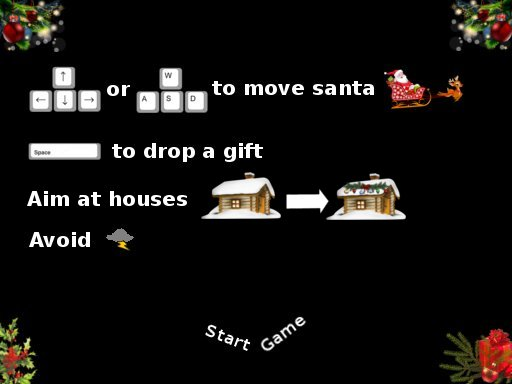
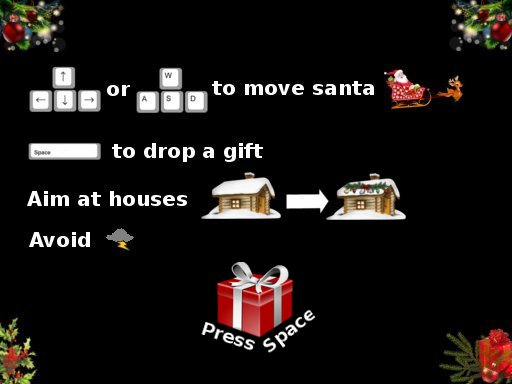
Remove click binding && remove share options

Changed region(s): [[0.375, 0.6875, 0.625, 0.9375]]

diff --git a/src/scenes.js b/src/scenes.js
@@ -88,18 +88,24 @@ Crafty.scene('Game', function() {
 
 Crafty.scene('GameOver', function() {
     Game.currentScene = 'GameOver';
+    var self = this;
+
     Crafty.background('rgb(0, 0, 0)');
 
     Crafty.e('DeadSanta').at(Game.player.x / Game.mainGrid.tile.width, Game.player.y / Game.mainGrid.tile.height);
-    Crafty.e('FinalScore').at(0, Game.playgroundHeight() + 6);
+    Crafty.e('FinalScore').at(2, Game.playgroundHeight() + 6);
 
     setTimeout(function() {
-        Crafty.e('Retry').at(0, Game.playgroundHeight() + 8);
-    }, 1000);
+        Crafty.e('Retry').at(20, Game.playgroundHeight() + 5.5);
 
-    Crafty.e('Twitter').at(20, Game.playgroundHeight() + 6);
-    Crafty.e('Google').at(23, Game.playgroundHeight() + 6);
-    Crafty.e('Facebook').at(26, Game.playgroundHeight() + 6);
+        self.bind('KeyUp', function(e) {
+            if (e.key === Crafty.keys['SPACE']) {
+                Crafty.scene('Game');
+            }
+        });
+    }, 1000);
+}, function() {
+    this.unbind('KeyUp');
 });
 
 
@@ -107,21 +113,15 @@ Crafty.scene('Start', function() {
     Game.currentScene = 'Start';
     var self = this;
 
-    self.startGame = function() {
-        Crafty.scene('Game');
-    };
-
     Crafty.load(['assets/game.jpg',
                  'assets/retry',
                  'assets/santa_dead.png',
                  'assets/sfeir.png',
                  'assets/sprite_house.png',
                  'assets/sprite_santa.png',
-                 'assets/sprite_share.png',
-                 'assets/sprite_storm.png',
-                 'assets/start_button.png'], function() {
+                 'assets/sprite_storm.png'], function() {
 
-        Crafty.sprite(91, 31, 'assets/retry.png', {
+        Crafty.sprite(160, 39, 'assets/retry.png', {
             sprite_retry: [0, 0]
         });
 
@@ -143,20 +143,16 @@ Crafty.scene('Start', function() {
             sprite_santa: [0, 0]
         });
 
-        Crafty.sprite(40, 'assets/sprite_share.png', {
-            sprite_twitter: [0, 0],
-            sprite_google: [1, 0],
-            sprite_facebook: [2, 0]
-        });
-
         Crafty.sprite(32, 27, 'assets/sprite_storm.png', {
             sprite_storm: [0, 0]
         });
 
-        Crafty.sprite(79, 'assets/start_button.png', {
-            sprite_start_button: [0, 0]
+        self.bind('KeyUp', function(e) {
+            if (e.key === Crafty.keys['SPACE']) {
+                Crafty.scene('Game');
+            }
         });
-
-        Crafty.e('StartButton').at(13.5, 16).uniqueBind('Click', self.startGame);
     });
+}, function() {
+    this.unbind('KeyUp');
 });

diff --git a/src/components.js b/src/components.js
@@ -29,13 +29,6 @@ Crafty.c('Actor', {
     }
 });
 
-Crafty.c('Button', {
-    init: function() {
-        this.requires('2D, DOM, Grid, Mouse')
-            .css({cursor: 'pointer'});
-    }
-});
-
 Crafty.c('Scrollable', {
     _speed: 2,
 
@@ -58,12 +51,6 @@ Crafty.c('Scrollable', {
                 self.scroll(direction, scene, onDestroy);
             }, 10);
         }
-    }
-});
-
-Crafty.c('StartButton', {
-    init: function() {
-        this.requires('Button, sprite_start_button');
     }
 });
 
@@ -240,47 +227,6 @@ Crafty.c('DeadSanta', {
 
 Crafty.c('Retry', {
     init: function() {
-        this.requires('Button, sprite_retry')
-            .uniqueBind('Click', this.restart);
-    },
-
-    restart: function() {
-        Crafty.scene('Game');
-    }
-});
-
-Crafty.c('Twitter', {
-    init: function() {
-        this.requires('Button, sprite_twitter')
-            .uniqueBind('Click', this.share);
-    },
-
-    share: function() {
-        // soon
-    }
-});
-
-Crafty.c('Google', {
-    init: function() {
-        this.requires('Button, sprite_google')
-            .uniqueBind('Click', this.share);
-    },
-
-    share: function() {
-        //javascript:window.open('https://plus.google.com/share?url=' + Game.url, '', 'menubar=no,toolbar=no,resizable=yes,scrollbars=yes,height=600,width=600');
-        //return false;
-
-        // soon
-    }
-});
-
-Crafty.c('Facebook', {
-    init: function() {
-        this.requires('Button, sprite_facebook')
-            .uniqueBind('Click', this.share);
-    },
-
-    share: function() {
-        // soon
+        this.requires('Actor, sprite_retry');
     }
 });
